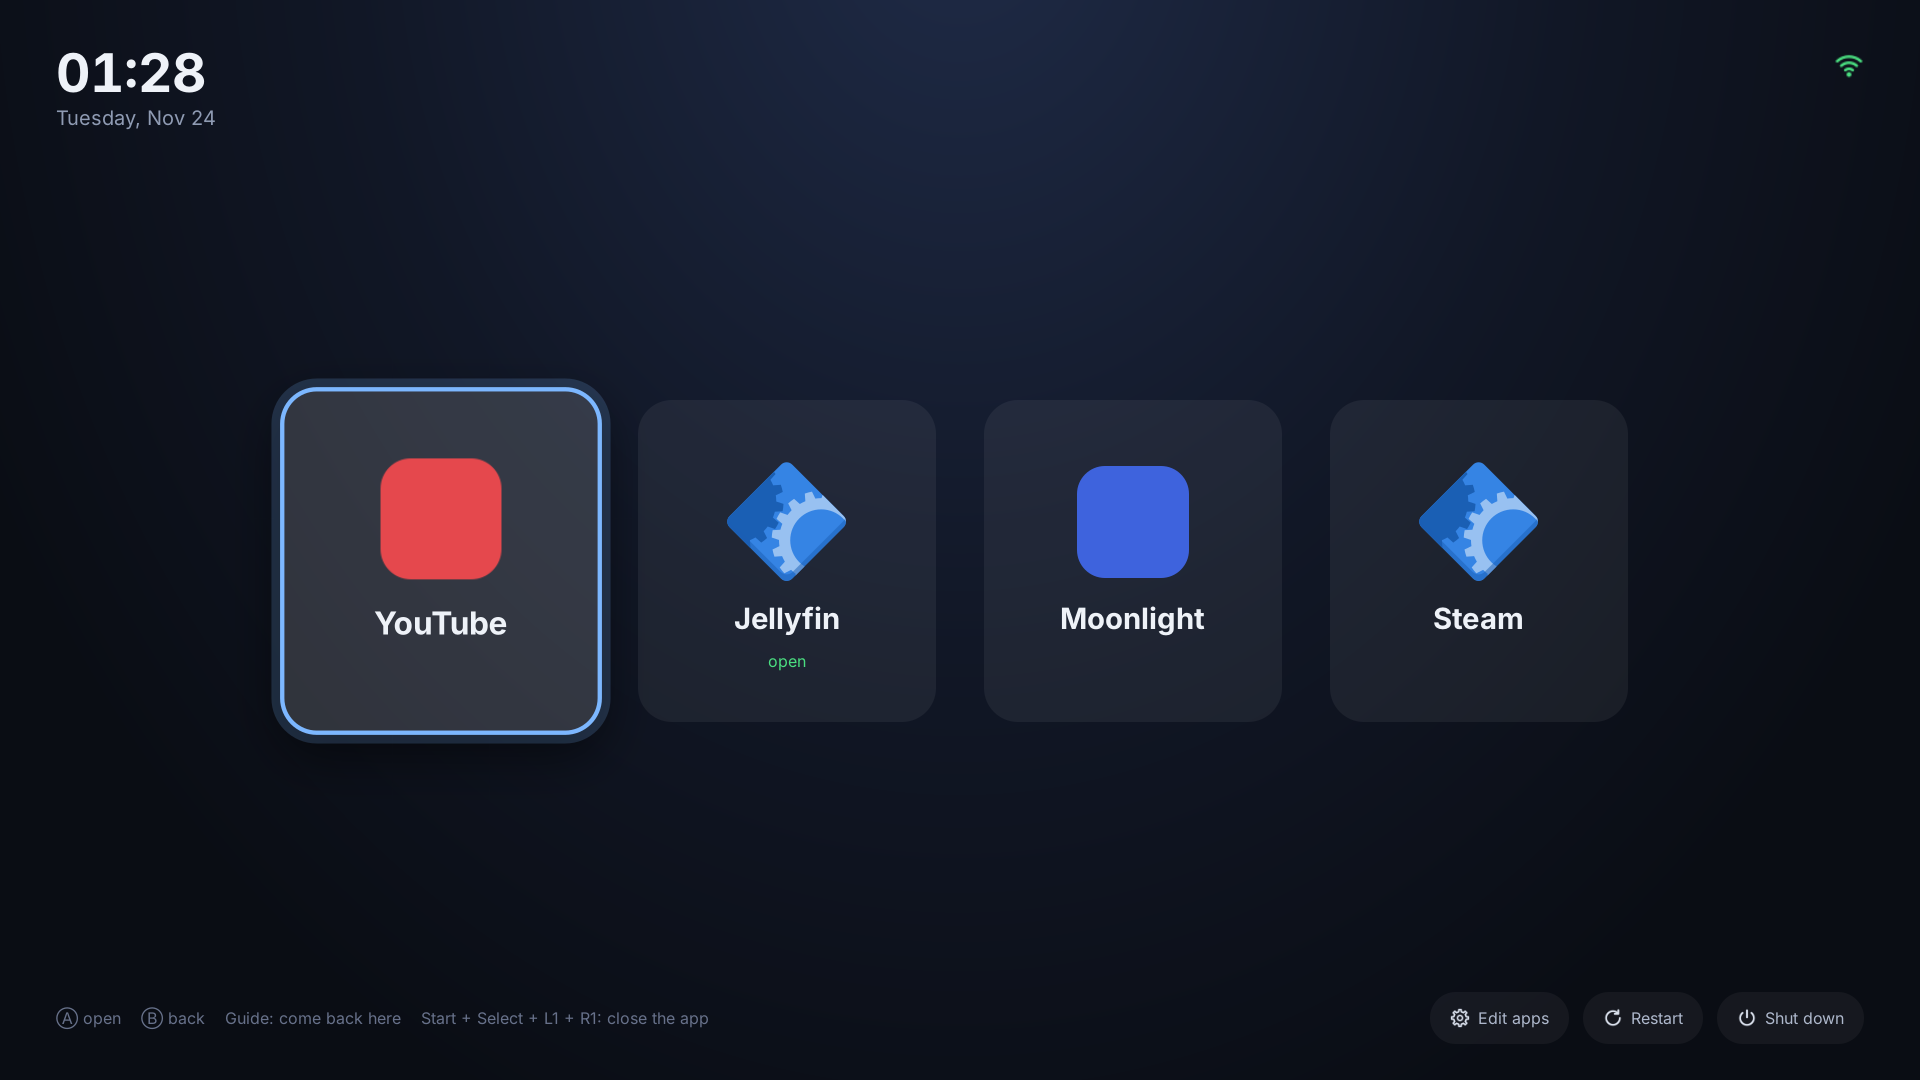
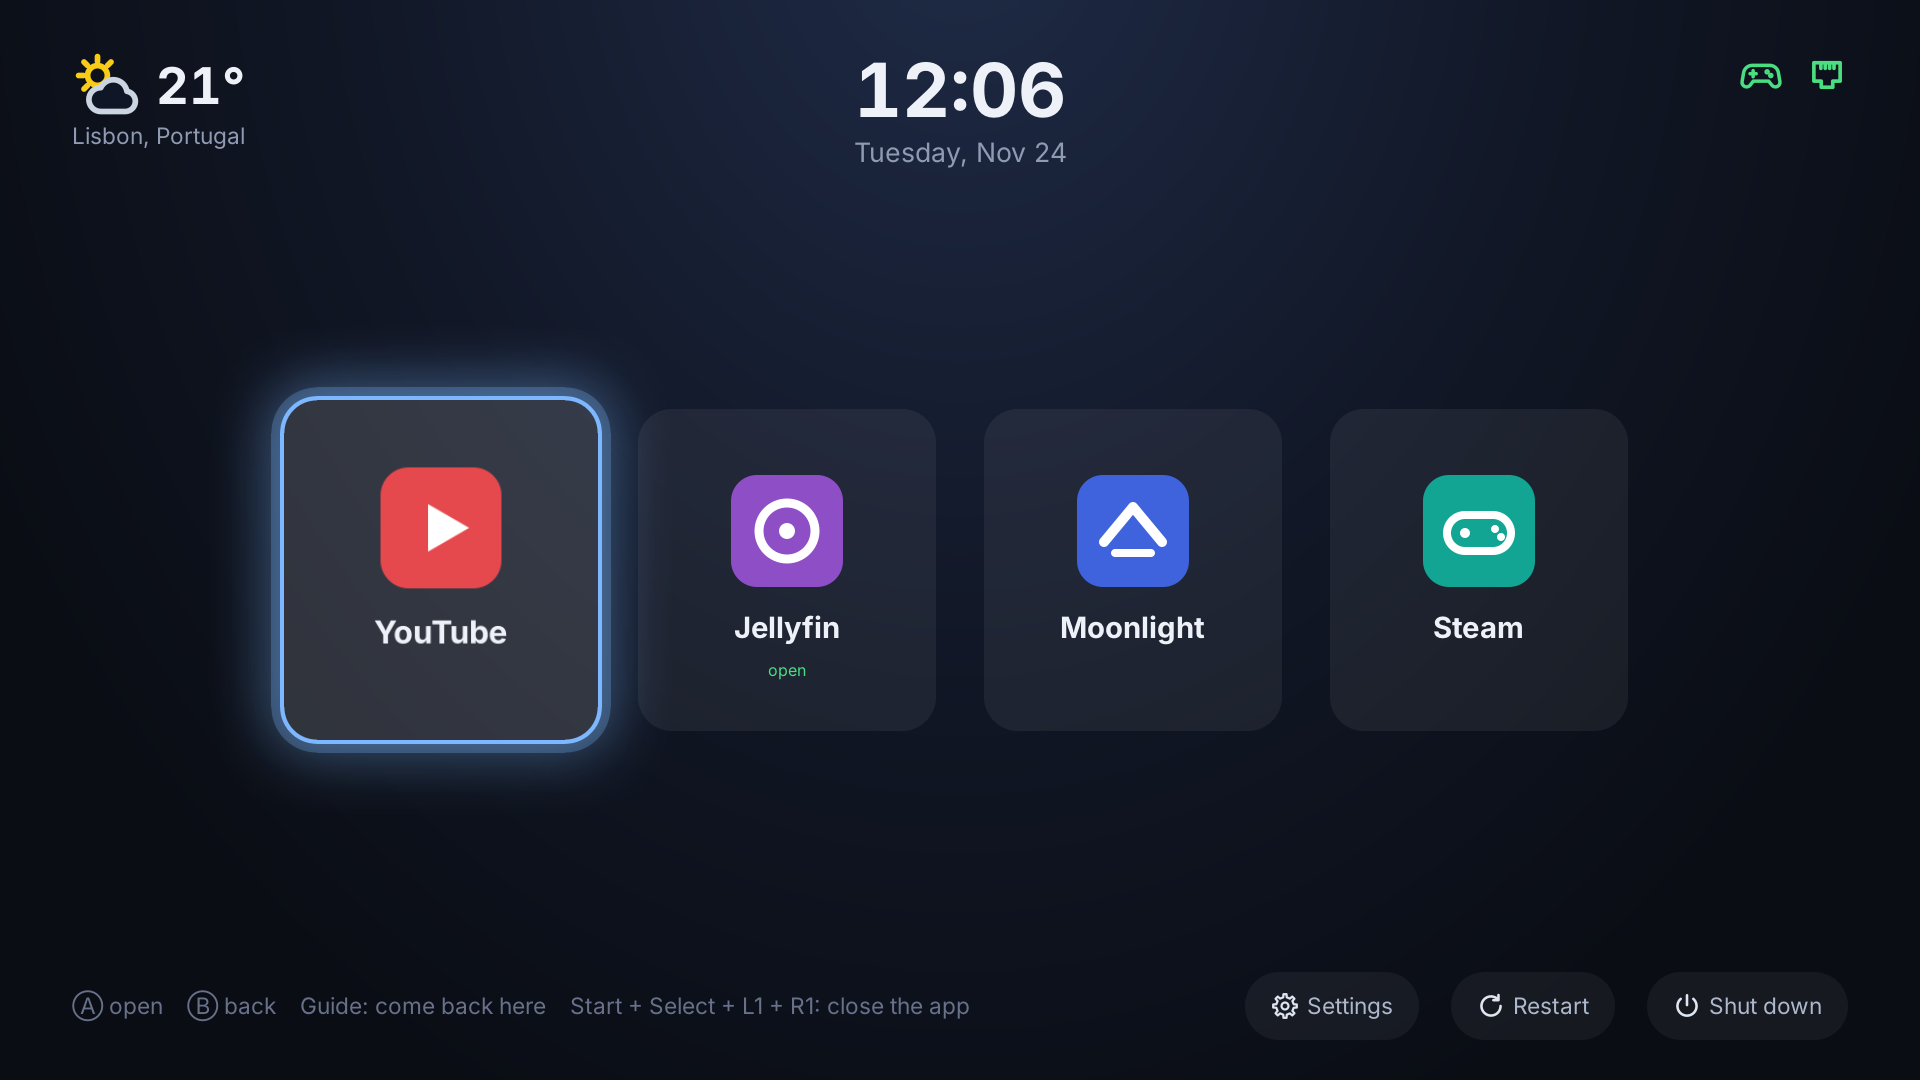
Docs for 0.1.0-beta.3: README, CHANGELOG, release notes, new screenshots
- README: animations and screen-size scaling, full screen in the extension's
  description, extras/, and troubleshooting for full screen after updating,
  gamepads in Flatpak apps, restarting the launcher over SSH and 4K at 30 Hz.
- CHANGELOG.md with what changed in each version so far.
- Release notes for 0.1.0-beta.3.
- docs/preview.png shows the current layout (weather, centered clock, status
  icons, Settings), with placeholder app icons; docs/settings.png shows the
  Settings menu.

Claude-Session: https://claude.ai/code/session_01GZMPqcQphneXedAtqmCyRs

diff --git a/README.md b/README.md
@@ -9,12 +9,17 @@ A gamepad-driven home screen for a living-room PC running Ubuntu with GNOME on W
 
 *The app icons in this screenshot are placeholders. On a real install the launcher shows each app's own icon, or images you choose.*
 
+![Settings menu](docs/settings.png)
+
+What changed in each version is in [CHANGELOG.md](CHANGELOG.md).
+
 ## Features
 
 - **Full-screen home screen** with one tile per app. Across the top:
   - on the left, the current weather (icon, temperature and place), once you set a location;
   - in the middle, the clock and date;
   - on the right, a gamepad icon that lights up when a gamepad is connected (USB, Bluetooth or wireless dongle) and shows how many there are when there is more than one, and the network icon: a cable symbol on a wired connection, Wi-Fi bars on Wi-Fi. It is just an icon while you are online and only shows text when the connection is limited or down.
+- **Made for a TV across the room:** the selected tile lifts and glows, pushing it plays a short "button pressed" animation, and a tile pulses green while its app is opening. The clock, weather, status icons, hints and footer grow with the screen (they keep the same share of a 1080p, 1440p or 4K screen), and every icon is drawn from vectors, so it stays sharp at any size.
 - **Apps open in full screen** (through the GNOME extension), except where an app's own full-screen mode is better, like Steam's Big Picture.
 - **Resume, never duplicate:** selecting an app that is already running brings its existing window back instead of starting a second copy.
 - **Guide button** (Xbox / Home / PS): pauses the video that is playing, if any, and returns to the launcher. The app keeps running behind it.
@@ -41,11 +46,12 @@ On Wayland, a regular program cannot raise another app's window or find out whic
 
 | Folder | What it is |
 |---|---|
-| `gnome-extension/` | The `htpc-launcher@htpc` GNOME Shell extension. It runs inside GNOME and exposes window control on the session bus (`org.htpc.Launcher`): list windows, raise or close an app's windows, show the launcher. |
+| `gnome-extension/` | The `htpc-launcher@htpc` GNOME Shell extension. It runs inside GNOME and exposes window control on the session bus (`org.htpc.Launcher`): list windows, raise, close or put an app's windows in full screen, show the launcher. |
 | `controller/` | The background service that reads the gamepads and runs the shortcuts (a systemd user service on Linux). |
 | `launcher/` | The home screen UI in GTK 4 (`launcher.py`), with the settings menu in `settings.py` and edit mode in `editor.py`. It only reaches the OS through the backend. |
 | `htpc/` | The shared Python package: `apps.json` handling (`config.py`), file locations per OS (`paths.py`), the guide and close-combo rules (`shortcuts.py`), on-screen text (`i18n.py`), background colors (`themes.py`) and the weather lookup (`weather.py`). |
-| `htpc/backends/` | Everything that talks to the operating system, behind the interface in `base.py`: window control, media pausing, gamepad input, the installed-apps list, and starting, force-closing, restart and shut down. `linux/` implements it; `windows/` is a documented placeholder. |
+| `htpc/backends/` | Everything that talks to the operating system, behind the interface in `base.py`: window control, media pausing, gamepad input, the installed-apps list, the connection type, and starting, force-closing, restart and shut down. `linux/` implements it; `windows/` is a documented placeholder. |
+| `extras/` | Files for other apps, such as a gamepad map for Jellyfin Desktop. |
 | `config/apps.json` | The example configuration, installed to `~/.config/htpc-launcher/apps.json`. |
 | `tests/` | Tests that run against a fake GNOME extension and a fake media player. |
 
@@ -125,7 +131,17 @@ journalctl --user -fu htpc-controller             # what the gamepad service is 
 journalctl --user -f -o cat /usr/bin/gnome-shell  # errors from the extension
 ```
 
-Over SSH, first export `XDG_RUNTIME_DIR=/run/user/$(id -u)`, `DBUS_SESSION_BUS_ADDRESS=unix:path=$XDG_RUNTIME_DIR/bus` and `WAYLAND_DISPLAY=wayland-0` so the commands reach the graphical session.
+Over SSH, first export `XDG_RUNTIME_DIR=/run/user/$(id -u)`, `DBUS_SESSION_BUS_ADDRESS=unix:path=$XDG_RUNTIME_DIR/bus` and `WAYLAND_DISPLAY=wayland-0` so the commands reach the graphical session. To restart the launcher from SSH, start it through your systemd user manager so it gets the session's `DISPLAY` and `XAUTHORITY` (X apps like Steam need them):
+
+```bash
+pkill -f "[h]tpc-launcher/launcher.py"; systemd-run --user --collect -p KillMode=process gtk-launch htpc-launcher
+```
+
+**Apps do not open in full screen:** the extension changed in 0.1.0-beta.3; GNOME only loads the new version after you log out and back in (or restart the machine).
+
+**A gamepad does nothing in a Flatpak app:** many Flatpaks cannot see input devices. Give the app access with `flatpak override --user --device=input <app id>` (`--device=all` on Flatpak older than 1.15.6).
+
+**Everything feels slow on a 4K TV:** many integrated GPUs and HDMI ports only drive 4K at 30 Hz, and big-screen interfaces like Steam's Big Picture feel sluggish at 30 frames per second. A 60 Hz mode such as 2560×1440 or 1920×1080 is much smoother, and the TV scales it up; the launcher adapts to the new size by itself. Check the modes your TV offers in GNOME's Display settings.
 
 ## Porting to another operating system
 

diff --git a/.github/release-notes.md b/.github/release-notes.md
@@ -3,22 +3,35 @@
 
 HTPC Launcher: a gamepad-driven TV home screen for Ubuntu with GNOME on Wayland.
 
-## Install
+![Launcher home screen](https://raw.githubusercontent.com/murilosalviati/htpc-launcher/main/docs/preview.png)
 
-1. Download **htpc-launcher-VERSION.tar.gz** below and extract it: `tar xzf htpc-launcher-*.tar.gz`
-2. Run `./install.sh` inside the extracted folder.
-3. The first time, log out and back in so GNOME loads the extension, then run `gnome-extensions enable htpc-launcher@htpc`. The launcher starts by itself on that login.
+## What's new in 0.1.0-beta.3
 
-Requires Ubuntu with GNOME on Wayland (tested on GNOME Shell 50). The installers add `python3-evdev`, `python3-jeepney`, `python3-gi` and `gir1.2-gtk-4.0` if they are missing. The default apps (VacuumTube, Jellyfin Desktop, Moonlight, Steam) are expected as Flatpaks; you can change them from the launcher's edit mode.
+- **Settings menu** (the gear in the footer): apps, background color, weather location, °C or °F, language (applies right away) and a button to close the launcher.
+- **Weather** in the top-left corner, from a Brazilian CEP or a city name (Open-Meteo and ViaCEP, no account needed), with day and night icons.
+- **Clock in the middle**, a **gamepad indicator** (with the count when there is more than one) and a **cable icon** on wired connections.
+- **Apps open in full screen** through the GNOME extension (Steam's Big Picture excepted).
+- **Tile animations:** breathing glow on the selected tile, a "button pressed" animation, and a green pulse while an app opens.
+- **Sizes follow the screen**, from 1080p to 4K, with sharp vector icons at any size.
+- **Jellyfin Desktop works with a gamepad:** the installer gives its Flatpak access to input devices and adds a map for any Xbox controller.
 
-## What's in it
+### Fixed
 
-- Full-screen home screen with app tiles, a clock and a network indicator.
-- Selecting a running app brings its window back instead of opening a second copy.
-- Guide button pauses the video and returns home; Start + Select + L1 + R1 closes the app.
-- Edit mode to add, edit and remove apps with the gamepad, including an on-screen keyboard.
-- Restart and shut down from the couch, with confirmation.
-- Steam always comes up in Big Picture.
-- English and Brazilian Portuguese on-screen text.
+- Steam's "Check your DISPLAY" error when the launcher was started from SSH.
+- An app closed right after opening showing "opening…" again.
+- The launcher appearing ~50 s late at login.
+- Blurry icons when enlarged.
+
+The full list is in [CHANGELOG.md](https://github.com/murilosalviati/htpc-launcher/blob/main/CHANGELOG.md).
+
+## Install or update
+
+1. Download **htpc-launcher-0.1.0-beta.3.tar.gz** below and extract it: `tar xzf htpc-launcher-*.tar.gz`
+2. Run `./install.sh` inside the extracted folder. An existing `apps.json` is kept.
+3. **Log out and back in** so GNOME loads the extension (version 3 in this release). On a first install, then run `gnome-extensions enable htpc-launcher@htpc`. The launcher starts by itself at login.
+
+Requires Ubuntu with GNOME on Wayland (tested on GNOME Shell 50). The installers add `python3-evdev`, `python3-jeepney`, `python3-gi` and `gir1.2-gtk-4.0` if they are missing. The default apps (VacuumTube, Jellyfin Desktop, Moonlight, Steam) are expected as Flatpaks; change them from Settings → Apps.
+
+**Tip for 4K TVs:** if the TV only gets 4K at 30 Hz (common with integrated GPUs), a 60 Hz mode like 2560×1440 makes everything, Steam's Big Picture especially, much smoother. The launcher adapts to the new size by itself.
 
 See the [README](https://github.com/murilosalviati/htpc-launcher#readme) for configuration and troubleshooting.

diff --git a/CHANGELOG.md b/CHANGELOG.md
@@ -1,0 +1,40 @@
+# Changelog
+
+The project is in beta: every `0.x` version is a pre-release, and the configuration format or install steps may still change.
+
+## 0.1.0-beta.3
+
+Update by running `./install.sh` again, then **log out and back in once** so GNOME loads version 3 of the extension (needed for full-screen apps). Your `apps.json` is kept.
+
+### New
+
+- **Settings menu** (the gear in the footer), replacing "Edit apps": apps (edit mode), background color, weather location, temperature unit (°C or °F), language (switches right away, no restart) and a button to close the launcher (the guide button opens it again).
+- **Weather** in the top-left corner: type a Brazilian CEP or a city name, confirm the place, and the launcher shows the temperature and an icon (clear, partly cloudy, cloudy, fog, rain, storm, snow; a moon at night). Data from Open-Meteo and ViaCEP, free and without an account. Updated every 30 minutes.
+- **Clock in the middle** of the top bar.
+- **Gamepad indicator** next to the network icon: lit when a gamepad is connected (USB, Bluetooth or wireless dongle), with the count when there is more than one. Virtual gamepads, like Steam Input's, are not counted.
+- **Wired network icon:** a cable symbol when the machine is on a cable, Wi-Fi bars only on Wi-Fi.
+- **Apps open in full screen**, through the GNOME extension (new `FullscreenOnOpen` method). Per app with `"fullscreen": false` in `apps.json`; Steam is off by default because Big Picture already is full screen.
+- **Tile animations:** a glow that breathes behind the selected tile, a "button pressed" animation when you select one, and a green pulse while an app is opening.
+- **Sizes follow the screen:** the clock, weather, status icons, hints and footer keep the same share of the screen on 1080p, 1440p or 4K, and start bigger than before.
+- **Jellyfin Desktop works with a gamepad:** `launcher/install.sh` gives its Flatpak access to input devices and installs a gamepad map that matches any Xbox controller (its own map only matches "Xbox One") and leaves the guide button to the launcher.
+
+### Fixed
+
+- Steam failed with "Check your DISPLAY" when the launcher had been started from an SSH shell: programs now get the graphical session's `DISPLAY` and `XAUTHORITY`.
+- An app closed right after opening came back as "opening…" for a while.
+- At login the launcher window appeared about 50 seconds late, waiting for xdg-desktop-portal; it now shows up right away.
+- The launcher's own icons were blurry when enlarged (an SVG was rasterized at 24 px and stretched); they are drawn from the vector at their size.
+
+### Under the hood
+
+- The code is split into a shared, OS-independent package (`htpc/`) and per-OS backends (`htpc/backends/`), with a documented plan for Windows.
+- Tests: 30+ checks for the controller and backends, 90+ for the UI.
+
+## 0.1.0-beta.2
+
+- GPL-3.0-or-later license.
+- Background color picker with 9 dark themes.
+
+## 0.1.0-beta.1
+
+- First public beta: gamepad home screen, resume instead of duplicate, guide and close-combo shortcuts, edit mode, restart and shut down, Steam in Big Picture, English and Brazilian Portuguese.
